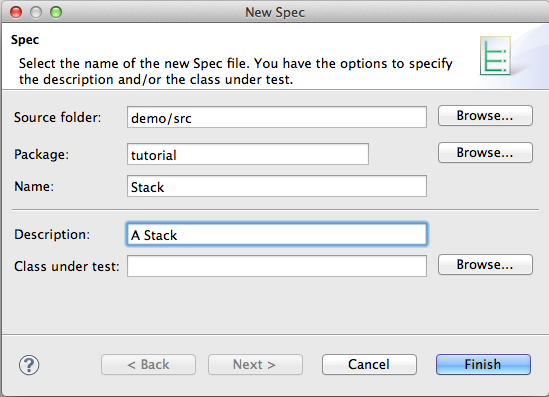
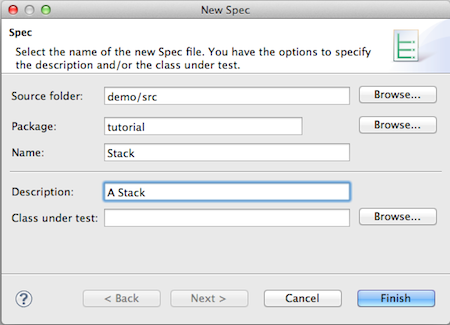
added thumbnail

diff --git a/org/jnario/spec/tests/documentation/JnarioSpecsTutorialSpec.html b/org/jnario/spec/tests/documentation/JnarioSpecsTutorialSpec.html
@@ -200,7 +200,8 @@ java.lang.AssertionError: additions failed
 </p>
 </li><li><p>
 <strong>Generating Documentation</strong>
-<p>Jnario can generate html documents from your specifications. The documentation will be generated automatically when you create a folder <code>doc-gen</code> in the project root. You can further extend the documentation by enriching your specification with Javadoc like comments. You can even use <a href="http//daringfireball.net/projects/markdown/">Markdown Syntax</a> to format your specifications. <ul class="thumbnails">  <li class="span3">  <a href="#" class="thumbnail">  <p align="center"><img src="/img/tutorial/doc_stack_example.png" alt="Generated documentation for the stack specification"></p>  </a>  </li> </ul></p><p>This tutorial is actually generated from a specification!</p>
+<p>Jnario can generate html documents from your specifications. The documentation will be generated automatically when you create a folder <code>doc-gen</code> in the project root. You can further extend the documentation by enriching your specification with Javadoc like comments. You can even use <a href="http//daringfireball.net/projects/markdown/">Markdown Syntax</a> to format your specifications.</p>
+<p align="center"><a href="/img/tutorial/doc_stack_example.png"><img src="/img/tutorial/doc_stack_example_small.png" alt="Generated documentation for the stack specification"/></a></p><p>This tutorial has actually been generated from a specification!</p>
 <pre class="prettyprint lang-spec">
 package demo
 				      
@@ -208,9 +209,11 @@ import java.util.Stack
 import java.util.EmptyStackException
 
 /*
- * In computer science, a **stack** is a last in, first out (LIFO) abstract data type 
- * and linear data structure. A stack can have any abstract data type as an element, 
- * but is characterized by two fundamental operations, called push and pop. 
+ * In computer science, a **stack** is a last in, first out 
+ * (LIFO) abstract data type and linear data structure. A 
+ * stack can have any abstract data type as an element, 
+ * but is characterized by two fundamental operations, 
+ * called push and pop. 
  * (source [Wikipedia](http://en.wikipedia.org/wiki/Stack)).
  */
 describe Stack{

diff --git a/org/jnario/spec/tests/unit/doc/DocGeneratorSpec.html b/org/jnario/spec/tests/unit/doc/DocGeneratorSpec.html
@@ -28,7 +28,7 @@
 			</div>
 			<div class="row">
 				<div class="span12">
-<ul><li></li><li></li><li><p>
+<ul><li><p>
 <strong>should generate java script helper files</strong>
 <pre class="prettyprint lang-spec">
 generateEmptyExampleDoc()
@@ -92,9 +92,8 @@ generateDoc('''
 val scenarioDoc = generatedFile("ExampleSpec.html")
 assert scenarioDoc.contains('''
 &lt;strong&gt;should do stuff&lt;/strong&gt;
-&lt;p&gt;
 &lt;p&gt;Example documentation&lt;/p&gt;
-&lt;pre class="prettyprint lang-jnario"&gt;
+&lt;pre class="prettyprint lang-spec"&gt;
 var x = 0
 x = x + 1&lt;/pre&gt;
 &lt;/p&gt;'''.toString())</pre>
@@ -147,7 +146,7 @@ generateDoc('''
 val scenarioDoc = generatedFile("ExampleSpec.html")
 assert scenarioDoc.contains('"aaaaaa"')</pre>
 </p>
-</li><li></li><li></li><li></li></ul>
+</li></ul>
 				</div>
 			</div>
 		</div> <!-- /content -->
